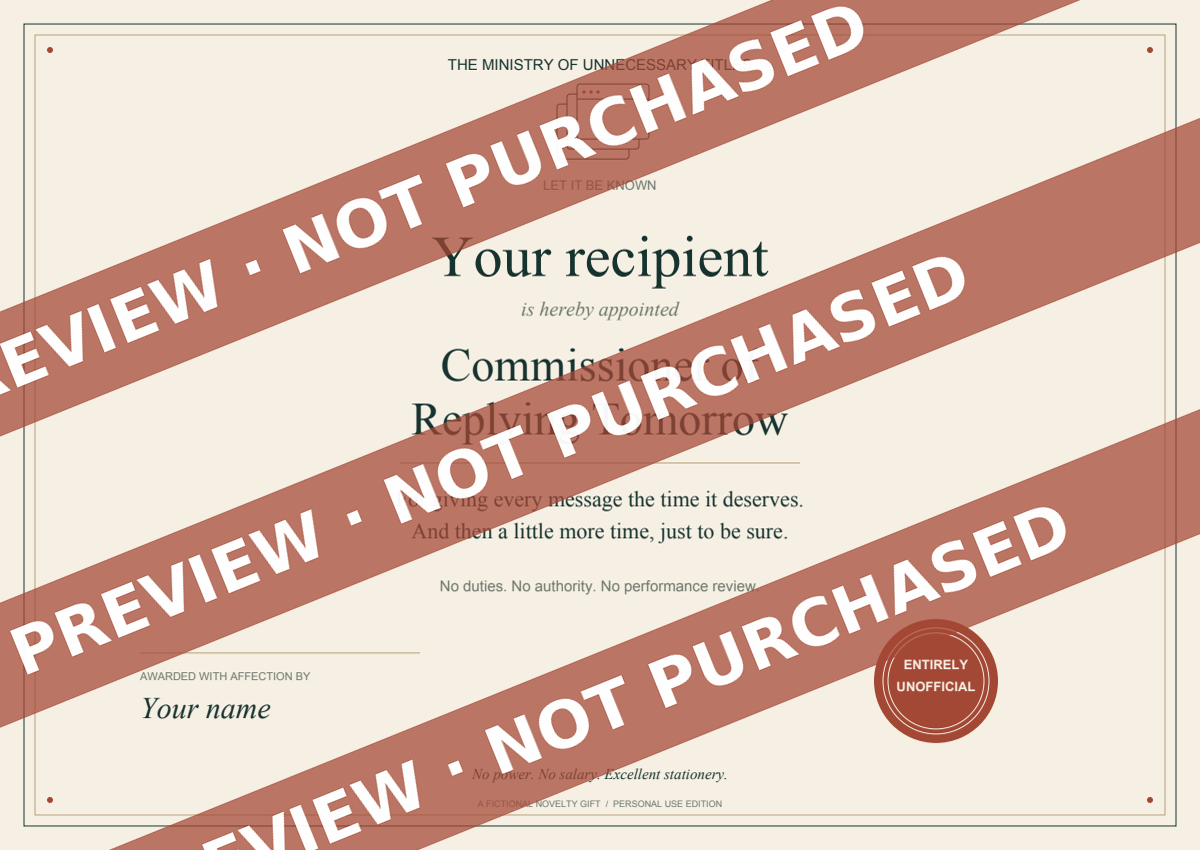
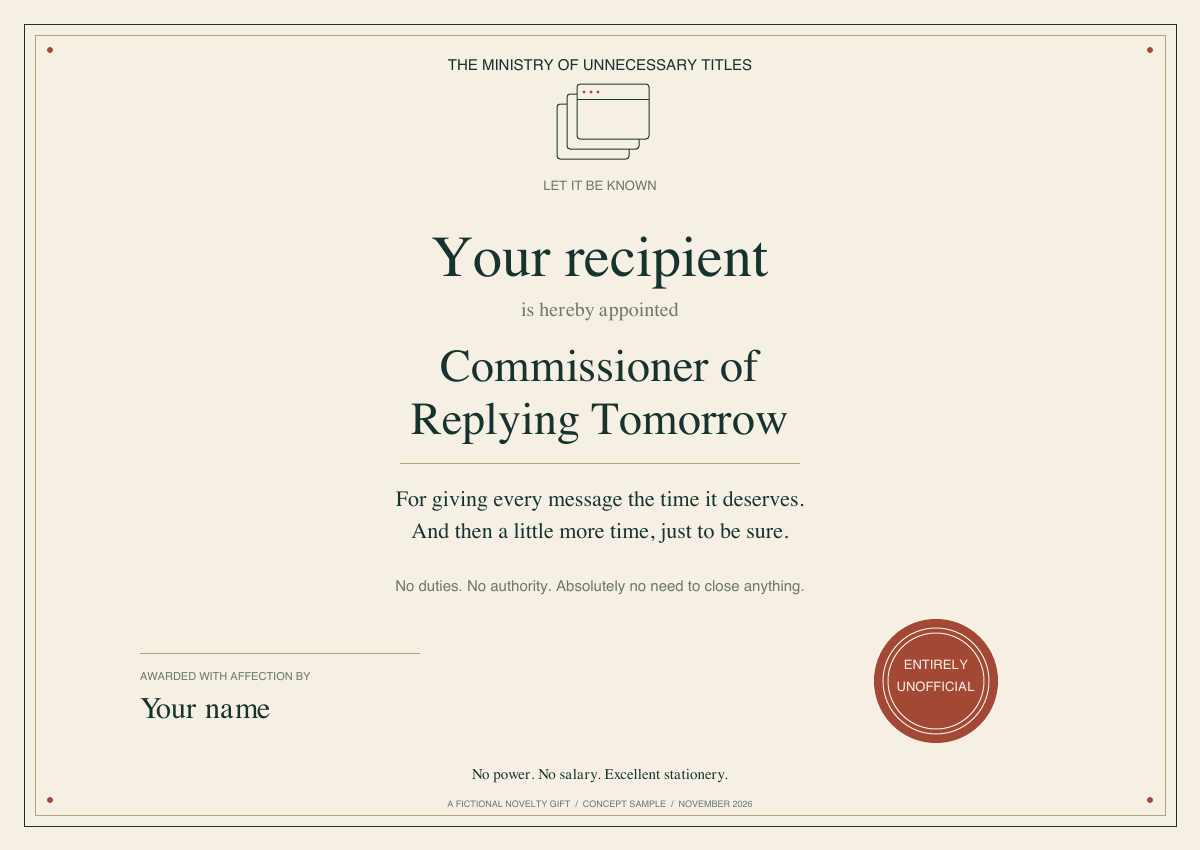
Show clean examples and permit the personalized browser preview preflight

diff --git a/site/departments/index.html b/site/departments/index.html
@@ -1,17 +1,17 @@
 <!doctype html><html lang="en"><head><meta charset="utf-8"><meta name="viewport" content="width=device-width,initial-scale=1">
   <title>Individual Department Products — Officially Pointless</title>
-  <meta name="description" content="Explore ten upcoming paid department ideas. Watermarked samples only; purchase and use are not available.">
+  <meta name="description" content="Explore ten upcoming paid department ideas. Example images only; purchase and use are not available.">
   <link rel="canonical" href="https://officiallypointless.com/departments/">
   <meta property="og:type" content="website">
   <meta property="og:site_name" content="Officially Pointless">
   <meta property="og:title" content="Individual Department Products — Officially Pointless">
-  <meta property="og:description" content="Explore ten upcoming paid department ideas. Watermarked samples only; purchase and use are not available.">
+  <meta property="og:description" content="Explore ten upcoming paid department ideas. Example images only; purchase and use are not available.">
   <meta property="og:url" content="https://officiallypointless.com/departments/">
   <meta property="og:image" content="https://officiallypointless.com/assets/departments/silence.png">
   <meta property="og:image:alt" content="Sample of the individual A Minute of Silence product.">
   <meta name="twitter:card" content="summary_large_image">
   <meta name="twitter:title" content="Individual Department Products — Officially Pointless">
-  <meta name="twitter:description" content="Explore ten upcoming paid department ideas. Watermarked samples only; purchase and use are not available.">
+  <meta name="twitter:description" content="Explore ten upcoming paid department ideas. Example images only; purchase and use are not available.">
   <meta name="twitter:image" content="https://officiallypointless.com/assets/departments/silence.png">
   <meta name="twitter:image:alt" content="Sample of the individual A Minute of Silence product.">
 <style>
@@ -48,20 +48,20 @@ main{min-width:0;overflow-wrap:anywhere}
 </header>
 <main id="main-content" tabindex="-1">
 <section class="department-hero"><div><p class="eyebrow">Officially Pointless</p><h1>Upcoming departments</h1>
-<p class="lead">More ways to accomplish very little.</p><p>Explore the watermarked samples. These are upcoming paid ideas; purchase and use are not available. Each future product will deliver a finished instance created on our backend.</p>
+<p class="lead">More ways to accomplish very little.</p><p>Explore the examples. These are upcoming paid ideas; purchase and use are not available. Each future product will deliver a finished instance created on our backend.</p>
 <p><a href="/departments/access/">Historical purchase support and removal</a></p></div>
-<figure><img src="/assets/departments/silence.png" width="1200" height="800" alt="Watermarked concept sample of A Minute of Silence"><figcaption>Watermarked concept sample. Purchase and use are not available.</figcaption></figure></section>
+<figure><img src="/assets/departments/silence.png" width="1200" height="800" alt="Example concept image of A Minute of Silence"><figcaption>Example concept image. Purchase and use are not available.</figcaption></figure></section>
 <section class="collection-samples" aria-labelledby="department-products-heading"><h2 id="department-products-heading">Upcoming paid ideas.</h2><div class="collection-grid">
-<a class="collection-card" href="/departments/make-it-worse/"><img src="/assets/departments/make-it-worse.png" width="1200" height="800" loading="lazy" alt="Watermarked sample taste citation"><h3>Bad Taste Department</h3><p>A citation in defense of questionable taste.</p><span>Upcoming · View watermarked sample ↗</span></a>
-<a class="collection-card" href="/departments/silence/"><img src="/assets/departments/silence.png" width="1200" height="800" loading="lazy" alt="Watermarked sample a dedication"><h3>A Minute of Silence</h3><p>A solemn minute for a very small loss.</p><span>Upcoming · View watermarked sample ↗</span></a>
-<a class="collection-card" href="/departments/loading/"><img src="/assets/departments/loading.png" width="1200" height="800" loading="lazy" alt="Watermarked sample loading patron"><h3>The Sponsored Loading Bar</h3><p>A brief delay, generously dedicated.</p><span>Upcoming · View watermarked sample ↗</span></a>
-<a class="collection-card" href="/departments/last-word/"><img src="/assets/departments/last-word.png" width="1200" height="800" loading="lazy" alt="Watermarked sample final statement"><h3>The Last Word</h3><p>The final statement, carefully typeset.</p><span>Upcoming · View watermarked sample ↗</span></a>
-<a class="collection-card" href="/departments/museum/"><img src="/assets/departments/museum.png" width="1200" height="800" loading="lazy" alt="Watermarked sample museum exhibit"><h3>The Ordinary Museum</h3><p>An exhibit label for an unremarkable object.</p><span>Upcoming · View watermarked sample ↗</span></a>
-<a class="collection-card" href="/departments/golden-error/"><img src="/assets/departments/golden-error.png" width="1200" height="800" loading="lazy" alt="Watermarked sample fictional error"><h3>A Gold-Plated Error</h3><p>An impeccably unnecessary 404.</p><span>Upcoming · View watermarked sample ↗</span></a>
-<a class="collection-card" href="/departments/button/"><img src="/assets/departments/button.png" width="1200" height="800" loading="lazy" alt="Watermarked sample button patron"><h3>The Over-Sponsored Button</h3><p>A button with nothing useful to accomplish.</p><span>Upcoming · View watermarked sample ↗</span></a>
-<a class="collection-card" href="/departments/empty-wing/"><img src="/assets/departments/empty-wing.png" width="1200" height="800" loading="lazy" alt="Watermarked sample wing dedication"><h3>The Empty Wing</h3><p>A dedication to an entirely empty gallery.</p><span>Upcoming · View watermarked sample ↗</span></a>
-<a class="collection-card" href="/departments/unnecessary-ribbon/"><img src="/assets/departments/unnecessary-ribbon.png" width="1200" height="800" loading="lazy" alt="Watermarked sample ceremonial opening"><h3>The Unnecessary Ribbon</h3><p>A ceremony in search of an occasion.</p><span>Upcoming · View watermarked sample ↗</span></a>
-<a class="collection-card" href="/departments/invisible-monument/"><img src="/assets/departments/invisible-monument.png" width="1200" height="800" loading="lazy" alt="Watermarked sample monument inscription"><h3>The Invisible Monument</h3><p>An inscription for something you cannot see.</p><span>Upcoming · View watermarked sample ↗</span></a></div></section>
+<a class="collection-card" href="/departments/make-it-worse/"><img src="/assets/departments/make-it-worse.png" width="1200" height="800" loading="lazy" alt="Example taste citation"><h3>Bad Taste Department</h3><p>A citation in defense of questionable taste.</p><span>Upcoming · View example ↗</span></a>
+<a class="collection-card" href="/departments/silence/"><img src="/assets/departments/silence.png" width="1200" height="800" loading="lazy" alt="Example a dedication"><h3>A Minute of Silence</h3><p>A solemn minute for a very small loss.</p><span>Upcoming · View example ↗</span></a>
+<a class="collection-card" href="/departments/loading/"><img src="/assets/departments/loading.png" width="1200" height="800" loading="lazy" alt="Example loading patron"><h3>The Sponsored Loading Bar</h3><p>A brief delay, generously dedicated.</p><span>Upcoming · View example ↗</span></a>
+<a class="collection-card" href="/departments/last-word/"><img src="/assets/departments/last-word.png" width="1200" height="800" loading="lazy" alt="Example final statement"><h3>The Last Word</h3><p>The final statement, carefully typeset.</p><span>Upcoming · View example ↗</span></a>
+<a class="collection-card" href="/departments/museum/"><img src="/assets/departments/museum.png" width="1200" height="800" loading="lazy" alt="Example museum exhibit"><h3>The Ordinary Museum</h3><p>An exhibit label for an unremarkable object.</p><span>Upcoming · View example ↗</span></a>
+<a class="collection-card" href="/departments/golden-error/"><img src="/assets/departments/golden-error.png" width="1200" height="800" loading="lazy" alt="Example fictional error"><h3>A Gold-Plated Error</h3><p>An impeccably unnecessary 404.</p><span>Upcoming · View example ↗</span></a>
+<a class="collection-card" href="/departments/button/"><img src="/assets/departments/button.png" width="1200" height="800" loading="lazy" alt="Example button patron"><h3>The Over-Sponsored Button</h3><p>A button with nothing useful to accomplish.</p><span>Upcoming · View example ↗</span></a>
+<a class="collection-card" href="/departments/empty-wing/"><img src="/assets/departments/empty-wing.png" width="1200" height="800" loading="lazy" alt="Example wing dedication"><h3>The Empty Wing</h3><p>A dedication to an entirely empty gallery.</p><span>Upcoming · View example ↗</span></a>
+<a class="collection-card" href="/departments/unnecessary-ribbon/"><img src="/assets/departments/unnecessary-ribbon.png" width="1200" height="800" loading="lazy" alt="Example ceremonial opening"><h3>The Unnecessary Ribbon</h3><p>A ceremony in search of an occasion.</p><span>Upcoming · View example ↗</span></a>
+<a class="collection-card" href="/departments/invisible-monument/"><img src="/assets/departments/invisible-monument.png" width="1200" height="800" loading="lazy" alt="Example monument inscription"><h3>The Invisible Monument</h3><p>An inscription for something you cannot see.</p><span>Upcoming · View example ↗</span></a></div></section>
 <aside class="department-note"><p>No physical item, real property or legal authority is sold. Finished outputs and delivery need acceptance before any new department purchase or use opens.</p><p><a href="/sales-status/">Sales and refunds</a> · <a href="/contact/">Support</a></p></aside>
 </main><footer>
   <span>Officially Pointless · Fictional gifts, awarded with affection.</span>

diff --git a/scripts/verify-public-repository.js b/scripts/verify-public-repository.js
@@ -112,22 +112,22 @@ const reviewedPaths = [
 ];
 const allowedPaths = new Set(reviewedPaths);
 const approvedAssetSha256 = {
[32 lines of base64/hex data omitted]
 };
 const shaPattern = /^(?:[0-9a-f]{40}|[0-9a-f]{64})$/i;
 const utf8 = new TextDecoder('utf-8', { fatal: true });

diff --git a/site/index.html b/site/index.html
@@ -156,7 +156,7 @@ main{min-width:0;overflow-wrap:anywhere}
       </article>
 
     </div>
-    <p class="fine">Previews carry huge watermarks. Each certificate purchase receives one finished gift created on our backend. Other departments are upcoming paid ideas.</p>
+    <p class="fine">Personalized previews carry huge watermarks. Each certificate purchase receives one finished gift created on our backend. Other departments are upcoming paid ideas.</p>
   </section>
   <section class="kit-section"><p class="eyebrow">An honor deserves an audience</p><h2>Recognition people can see.</h2><p>Give a title they will want to display or share. Public honors and recipient collections are planned as another way to make a name part of the place; new public gifting stays closed until the issued-certificate connection passes acceptance.</p><p><a class="text-link" href="/gifts/">View existing public honors and collections</a></p><p class="fine">No visitor count, popularity or ranking is promised.</p></section>
   <section id="gift" class="product-hero">
@@ -175,7 +175,7 @@ main{min-width:0;overflow-wrap:anywhere}
     </div>
     <figure class="certificate-example">
       <img src="/assets/certificates/minister-of-unopened-tabs.png" alt="Sample fictional Minister of Unopened Tabs certificate; enter your own names after purchase" width="1200" height="850">
-      <figcaption>Watermarked sample. We create your finished gift after verified payment.</figcaption>
+      <figcaption>Example image. We create your finished gift after verified payment.</figcaption>
     </figure>
   </section>
   <section id="gift-titles" class="title-section" aria-labelledby="titles-heading">
@@ -232,7 +232,7 @@ main{min-width:0;overflow-wrap:anywhere}
   <section id="discover" class="discovery-section" aria-labelledby="discover-heading">
     <p class="eyebrow">The other departments</p>
     <h2 id="discover-heading">More ways to accomplish very little.</h2>
-    <p class="intro">Explore the watermarked samples. These departments are upcoming paid ideas; purchase and use are not available.</p>
+    <p class="intro">Explore the examples. These departments are upcoming paid ideas; purchase and use are not available.</p>
     <p><a class="linkbutton" href="/departments/">Explore the individual departments</a></p><p class="fine">Open a product to see its current purchase availability.</p><div class="upcoming-list">
 
       <article><h3><a href="/departments/make-it-worse/">Bad Taste Department</a></h3><p>A citation in defense of questionable taste.<br><span class="fine">View sample · Individual paid product</span></p></article>

diff --git a/site/privacy/index.html b/site/privacy/index.html
@@ -44,7 +44,7 @@ main{min-width:0;overflow-wrap:anywhere}
   <main class="document" id="main-content" tabindex="-1">
 <h1>Privacy</h1>
 
-<p>The website shows watermarked samples and offers backend-generated finished certificates when their individual checkout is open. We do not load Google sign-in, marketing analytics, advertising cookies or a mailing list.</p>
+<p>The website shows unwatermarked example images and offers backend-generated finished certificates when their individual checkout is open. We do not load Google sign-in, marketing analytics, advertising cookies or a mailing list.</p>
 <p>Requesting a personalized preview sends the selected certificate code, recipient name and giver name to our server. The server generates a flattened watermarked image and a signed preview token identifying that artwork version. The token contains those names and expires after 24 hours. It stays in the open tab and is not saved in browser storage or public links. Unpurchased preview names are processed temporarily and are not saved in the purchase store.</p>
 <p>Checkout sends the fixed selected product code to our commerce service to request the approved Gumroad destination. Gumroad handles payment and provides its own privacy information. We do not collect card details on this site.</p>
 <p>Finished delivery sends your signed preview token and purchase key to our server. Our server sends the key and fixed provider product identifier to Gumroad for authoritative verification. Application code does not log keys, names or provider response bodies. Gumroad returns purchase details for verification. Private Azure storage retains a pseudonymous sale hash, a hash of the personalized instance, the artwork version and the original finished PNG/PDF so repeated downloads return the same purchased files. Names appear in those private image pixels; raw name fields and purchase keys are not stored in the record.</p>

diff --git a/site/departments/invisible-monument/index.html b/site/departments/invisible-monument/index.html
@@ -55,7 +55,7 @@ main{min-width:0;overflow-wrap:anywhere}
     <div><p class="eyebrow">Officially Pointless · Department 10</p>
       <h1>The Invisible Monument</h1><p class="lead">Remarkable from every angle. Especially the ones without it.</p>
       <p>An inscription for something you cannot see.</p><p><strong>Upcoming paid idea</strong></p><p class="availability">Purchase and use are not available.</p>
-      <p class="fine">Watermarked sample only. Alex and Sam are sample names. The finished product and its delivery will be defined before orders open.</p>
+      <p class="fine">Example image only. Alex and Sam are sample names. The finished product and its delivery will be defined before orders open.</p>
     </div>
     <figure><img src="/assets/departments/invisible-monument.png" width="1200" height="800" alt="Sample monument inscription for Alex, given by Sam. Fictional ceremony; no physical item."><figcaption>Sample presentation. Names and wording are examples.</figcaption></figure>
   </section>

diff --git a/site/departments/make-it-worse/index.html b/site/departments/make-it-worse/index.html
@@ -55,7 +55,7 @@ main{min-width:0;overflow-wrap:anywhere}
     <div><p class="eyebrow">Officially Pointless · Department 01</p>
       <h1>Bad Taste Department</h1><p class="lead">Taste is subjective. Yours has been entered into evidence.</p>
       <p>A citation in defense of questionable taste.</p><p><strong>Upcoming paid idea</strong></p><p class="availability">Purchase and use are not available.</p>
-      <p class="fine">Watermarked sample only. Alex and Sam are sample names. The finished product and its delivery will be defined before orders open.</p>
+      <p class="fine">Example image only. Alex and Sam are sample names. The finished product and its delivery will be defined before orders open.</p>
     </div>
     <figure><img src="/assets/departments/make-it-worse.png" width="1200" height="800" alt="Sample taste citation for Alex, given by Sam. Fictional ceremony; no physical item."><figcaption>Sample presentation. Names and wording are examples.</figcaption></figure>
   </section>

diff --git a/site/departments/museum/index.html b/site/departments/museum/index.html
@@ -55,7 +55,7 @@ main{min-width:0;overflow-wrap:anywhere}
     <div><p class="eyebrow">Officially Pointless · Department 05</p>
       <h1>The Ordinary Museum</h1><p class="lead">Everyday objects. An entirely unnecessary curatorial department.</p>
       <p>An exhibit label for an unremarkable object.</p><p><strong>Upcoming paid idea</strong></p><p class="availability">Purchase and use are not available.</p>
-      <p class="fine">Watermarked sample only. Alex and Sam are sample names. The finished product and its delivery will be defined before orders open.</p>
+      <p class="fine">Example image only. Alex and Sam are sample names. The finished product and its delivery will be defined before orders open.</p>
     </div>
     <figure><img src="/assets/departments/museum.png" width="1200" height="800" alt="Sample museum exhibit for Alex, given by Sam. Fictional ceremony; no physical item."><figcaption>Sample presentation. Names and wording are examples.</figcaption></figure>
   </section>

diff --git a/site/departments/loading/index.html b/site/departments/loading/index.html
@@ -55,7 +55,7 @@ main{min-width:0;overflow-wrap:anywhere}
     <div><p class="eyebrow">Officially Pointless · Department 03</p>
       <h1>The Sponsored Loading Bar</h1><p class="lead">Progress has acquired a patron. It is still going nowhere.</p>
       <p>A brief delay, generously dedicated.</p><p><strong>Upcoming paid idea</strong></p><p class="availability">Purchase and use are not available.</p>
-      <p class="fine">Watermarked sample only. Alex and Sam are sample names. The finished product and its delivery will be defined before orders open.</p>
+      <p class="fine">Example image only. Alex and Sam are sample names. The finished product and its delivery will be defined before orders open.</p>
     </div>
     <figure><img src="/assets/departments/loading.png" width="1200" height="800" alt="Sample loading patron for Alex, given by Sam. Fictional ceremony; no physical item."><figcaption>Sample presentation. Names and wording are examples.</figcaption></figure>
   </section>

diff --git a/site/departments/button/index.html b/site/departments/button/index.html
@@ -55,7 +55,7 @@ main{min-width:0;overflow-wrap:anywhere}
     <div><p class="eyebrow">Officially Pointless · Department 07</p>
       <h1>The Over-Sponsored Button</h1><p class="lead">An impressive supporting cast. Absolutely no plot.</p>
       <p>A button with nothing useful to accomplish.</p><p><strong>Upcoming paid idea</strong></p><p class="availability">Purchase and use are not available.</p>
-      <p class="fine">Watermarked sample only. Alex and Sam are sample names. The finished product and its delivery will be defined before orders open.</p>
+      <p class="fine">Example image only. Alex and Sam are sample names. The finished product and its delivery will be defined before orders open.</p>
     </div>
     <figure><img src="/assets/departments/button.png" width="1200" height="800" alt="Sample button patron for Alex, given by Sam. Fictional ceremony; no physical item."><figcaption>Sample presentation. Names and wording are examples.</figcaption></figure>
   </section>

diff --git a/site/departments/unnecessary-ribbon/index.html b/site/departments/unnecessary-ribbon/index.html
@@ -55,7 +55,7 @@ main{min-width:0;overflow-wrap:anywhere}
     <div><p class="eyebrow">Officially Pointless · Department 09</p>
       <h1>The Unnecessary Ribbon</h1><p class="lead">A grand opening for no particular occasion.</p>
       <p>A ceremony in search of an occasion.</p><p><strong>Upcoming paid idea</strong></p><p class="availability">Purchase and use are not available.</p>
-      <p class="fine">Watermarked sample only. Alex and Sam are sample names. The finished product and its delivery will be defined before orders open.</p>
+      <p class="fine">Example image only. Alex and Sam are sample names. The finished product and its delivery will be defined before orders open.</p>
     </div>
     <figure><img src="/assets/departments/unnecessary-ribbon.png" width="1200" height="800" alt="Sample ceremonial opening for Alex, given by Sam. Fictional ceremony; no physical item."><figcaption>Sample presentation. Names and wording are examples.</figcaption></figure>
   </section>

diff --git a/site/departments/silence/index.html b/site/departments/silence/index.html
@@ -55,7 +55,7 @@ main{min-width:0;overflow-wrap:anywhere}
     <div><p class="eyebrow">Officially Pointless · Department 02</p>
       <h1>A Minute of Silence</h1><p class="lead">For something that probably did not need commemorating.</p>
       <p>A solemn minute for a very small loss.</p><p><strong>Upcoming paid idea</strong></p><p class="availability">Purchase and use are not available.</p>
-      <p class="fine">Watermarked sample only. Alex and Sam are sample names. The finished product and its delivery will be defined before orders open.</p>
+      <p class="fine">Example image only. Alex and Sam are sample names. The finished product and its delivery will be defined before orders open.</p>
     </div>
     <figure><img src="/assets/departments/silence.png" width="1200" height="800" alt="Sample a dedication for Alex, given by Sam. Fictional ceremony; no physical item."><figcaption>Sample presentation. Names and wording are examples.</figcaption></figure>
   </section>

diff --git a/site/departments/empty-wing/index.html b/site/departments/empty-wing/index.html
@@ -55,7 +55,7 @@ main{min-width:0;overflow-wrap:anywhere}
     <div><p class="eyebrow">Officially Pointless · Department 08</p>
       <h1>The Empty Wing</h1><p class="lead">A museum extension of impeccable emptiness.</p>
       <p>A dedication to an entirely empty gallery.</p><p><strong>Upcoming paid idea</strong></p><p class="availability">Purchase and use are not available.</p>
-      <p class="fine">Watermarked sample only. Alex and Sam are sample names. The finished product and its delivery will be defined before orders open.</p>
+      <p class="fine">Example image only. Alex and Sam are sample names. The finished product and its delivery will be defined before orders open.</p>
     </div>
     <figure><img src="/assets/departments/empty-wing.png" width="1200" height="800" alt="Sample wing dedication for Alex, given by Sam. Fictional ceremony; no physical item."><figcaption>Sample presentation. Names and wording are examples.</figcaption></figure>
   </section>
